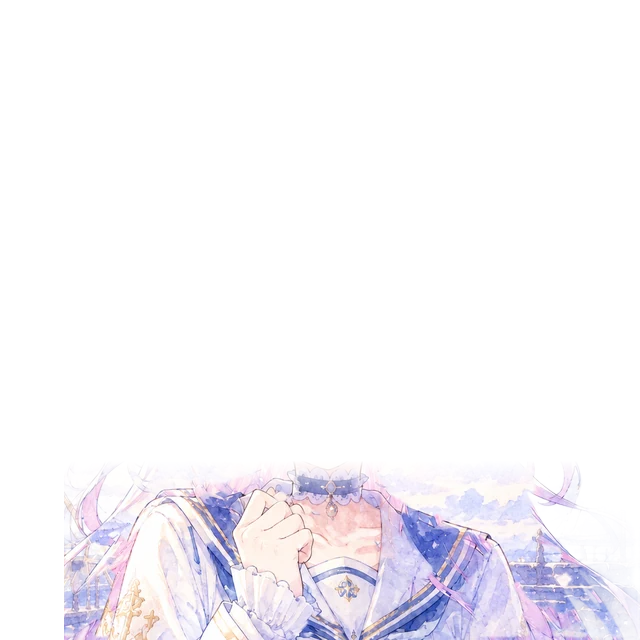
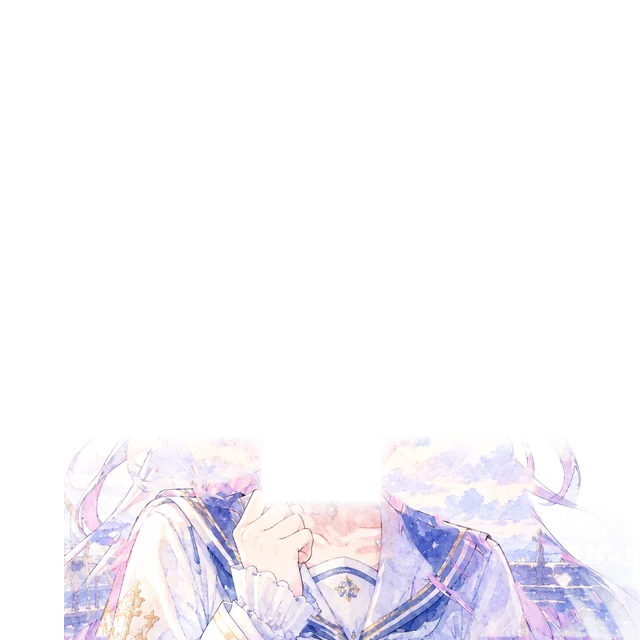
feat(hub): AYN に表情差分(笑い目/ウインク/考え/困り/驚き)と首かしげ

diff --git a/public/ayn-rig/rig.js b/public/ayn-rig/rig.js
@@ -11,7 +11,8 @@ class AynRig {
     this.ready = false; this.layers = []; this.state = {};
   }
   async load() {
-    const rig = await (await fetch(this.url, { cache: 'no-store' })).json();
+    // file:// (iOS の WKWebView など)では fetch が使えんけん、rig.json.js が定義する window.AYN_RIG を優先
+    const rig = window.AYN_RIG || await (await fetch(this.url, { cache: 'no-store' })).json();
     this.rig = rig;
     const imgs = await Promise.all(rig.layers.map(l => new Promise((res, rej) => {
       const im = new Image(); im.onload = () => res(im); im.onerror = () => rej(new Error('layer: ' + l.file));
@@ -20,8 +21,16 @@ class AynRig {
     this.layers = rig.layers.map((l, i) => ({ ...l, img: imgs[i], angle: 0, vel: 0, alpha: l.switch ? 0 : 1 }))
       .sort((a, b) => a.z - b.z);
     this.ready = true; this.prevTilt = 0; this.prevTiltVel = 0;
+    this.expr = { name: 'neutral', layers: new Set(), tilt: 0 }; this.tiltExtra = 0;
     return this;
   }
+  /** 表情プリセット(rig.json の expressions)。無い名前は neutral。first: 首傾げの角度も付いてくる */
+  setExpression(name) {
+    const e = (this.rig.expressions || {})[name] || {};
+    this.expr = { name, layers: new Set(e.layers || []), tilt: e.tilt || 0 };
+  }
+  /** 首傾げ(度)。正=向かって右に傾く。0 で戻る。表情の tilt に足される */
+  tilt(deg) { this.tiltExtra = deg || 0; }
   // 表示変換: 顔を中心に、円窓に収まる倍率
   _view() {
     const c = this.canvas, r = this.rig, s = r.size, f = r.face;
@@ -41,7 +50,9 @@ class AynRig {
     const v = this._view();
     // 頭の傾き(ゆっくり揺れ + 喋る時の小さな相槌)
     const g = r.groups.head;
-    const tilt = Math.sin(t * 0.45) * g.tilt_deg * 0.55 + (st.speaking ? Math.sin(t * 2.3) * 0.8 : 0) + (st.level || 0) * 0.8;
+    const tiltGoal = (this.expr ? this.expr.tilt : 0) + (this.tiltExtra || 0);
+    this.tiltNow = (this.tiltNow || 0) + (tiltGoal - (this.tiltNow || 0)) * Math.min(1, dt * 4);   // ゆっくり傾く
+    const tilt = this.tiltNow + Math.sin(t * 0.45) * g.tilt_deg * 0.55 + (st.speaking ? Math.sin(t * 2.3) * 0.8 : 0) + (st.level || 0) * 0.8;
     const tiltVel = (tilt - this.prevTilt) / dt; const tiltAcc = (tiltVel - this.prevTiltVel) / dt;
     this.prevTilt = tilt; this.prevTiltVel = tiltVel;
     const breatheHead = Math.sin(t * 1.25) * g.breathe_px * (st.speaking ? 1.3 : 1);
@@ -60,6 +71,7 @@ class AynRig {
       }
       if (L.switch === 'blink') L.alpha += ((st.blink ? 1 : 0) - L.alpha) * 0.6;
       if (L.switch === 'mouth') L.alpha += (mouth - L.alpha) * 0.5;
+      if (L.switch === 'expr') L.alpha += ((this.expr && this.expr.layers.has(L.name) ? 1 : 0) - L.alpha) * Math.min(1, dt * 8);
     }
     // 描画
     ctx.setTransform(v.dpr, 0, 0, v.dpr, 0, 0);

diff --git a/public/ayn-rig/rig.json.js b/public/ayn-rig/rig.json.js
@@ -1,0 +1,1 @@
+window.AYN_RIG = {"version": 1, "size": 640, "source": "AYN watercolor bust-up (mks ayn_s2) + custom GPT diff variants", "face": {"cx": 321, "eyes": [229, 325, 413, 378], "mouth": [305, 415, 346, 435], "neck_y": 511}, "layers": [{"name": "body", "file": "body.webp", "z": 0, "group": "body"}, {"name": "head", "file": "head.webp", "z": 1, "group": "head"}, {"name": "hair_L", "file": "hair_L.webp", "z": 2, "group": "head", "pivot": [192, 200], "physics": {"type": "pendulum", "stiffness": 9, "damping": 1.3, "max_deg": 20, "wind": 3.8, "phase": 0.0}}, {"name": "hair_R", "file": "hair_R.webp", "z": 3, "group": "head", "pivot": [470, 236], "physics": {"type": "pendulum", "stiffness": 9, "damping": 1.3, "max_deg": 20, "wind": 3.8, "phase": 1.7}}, {"name": "eyes_closed", "file": "eyes_closed.webp", "z": 4, "group": "head", "switch": "blink"}, {"name": "mouth_open", "file": "mouth_open.webp", "z": 5, "group": "head", "switch": "mouth"}, {"name": "eyes_happy", "file": "eyes_happy.webp", "z": 6, "group": "head", "switch": "expr"}, {"name": "eyes_wink", "file": "eyes_wink.webp", "z": 7, "group": "head", "switch": "expr"}, {"name": "eyes_up", "file": "eyes_up.webp", "z": 8, "group": "head", "switch": "expr"}, {"name": "face_sad", "file": "face_sad.webp", "z": 9, "group": "head", "switch": "expr"}, {"name": "face_surprise", "file": "face_surprise.webp", "z": 10, "group": "head", "switch": "expr"}, {"name": "hair_front", "file": "hair_front.webp", "z": 20, "group": "head", "pivot": [321, 249], "physics": {"type": "pendulum", "stiffness": 18, "damping": 2.0, "max_deg": 8, "wind": 2.0, "phase": 0.9}}], "expressions": {"neutral": {}, "happy": {"layers": ["eyes_happy"]}, "wink": {"layers": ["eyes_wink"]}, "think": {"layers": ["eyes_up"], "tilt": -6}, "sad": {"layers": ["face_sad"], "tilt": 4}, "surprise": {"layers": ["face_surprise"]}, "kubikashige": {"layers": ["eyes_happy"], "tilt": 10}}, "groups": {"head": {"pivot": [321, 511], "tilt_deg": 4.0, "breathe_px": 6}, "body": {"pivot": [321, 640], "breathe_px": 3}}};
